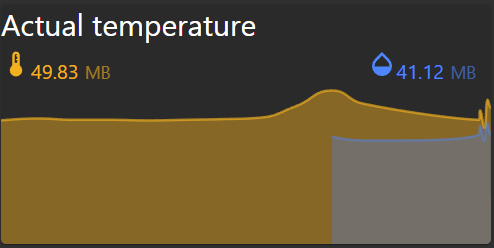
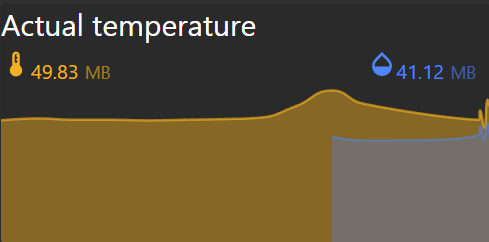
Small changes

diff --git a/src-widgets/src/Actual.jsx b/src-widgets/src/Actual.jsx
@@ -124,7 +124,6 @@ class Actual extends Generic {
             visSetColor: '#0783ff', // Color of widget set
 
             visWidgetLabel: 'vis_2_widgets_material_actual_temperature',  // Label of widget
-            visWidgetColor: '#005cc4',  // Label of widget
             visName: 'Actual temperature',
             visAttrs: [{
                 name: 'common',
@@ -154,6 +153,10 @@ class Actual extends Generic {
                     },
                 ],
             }],
+            visDefaultStyle: {
+                width: 240,
+                height: 120
+            },
             visPrev: 'widgets/vis-2-widgets-material/img/prev_actual.png',
         };
     }
